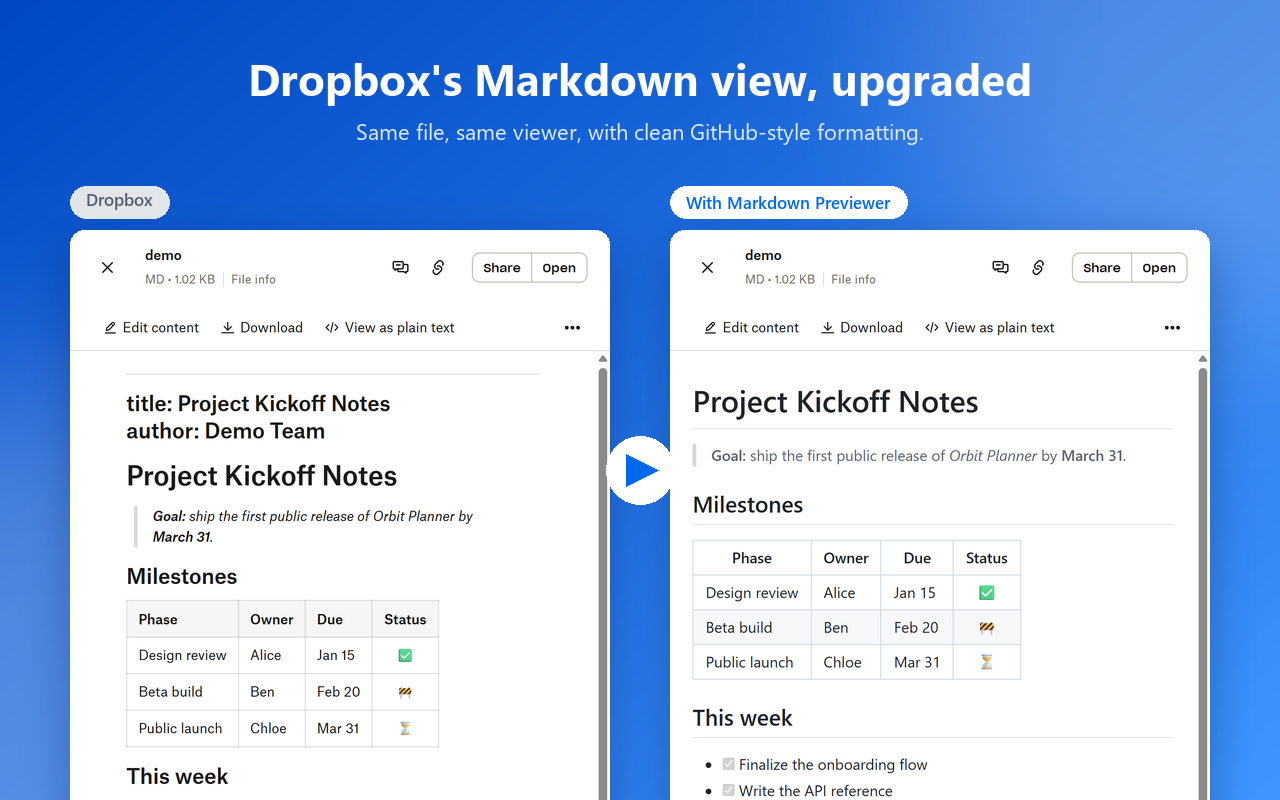
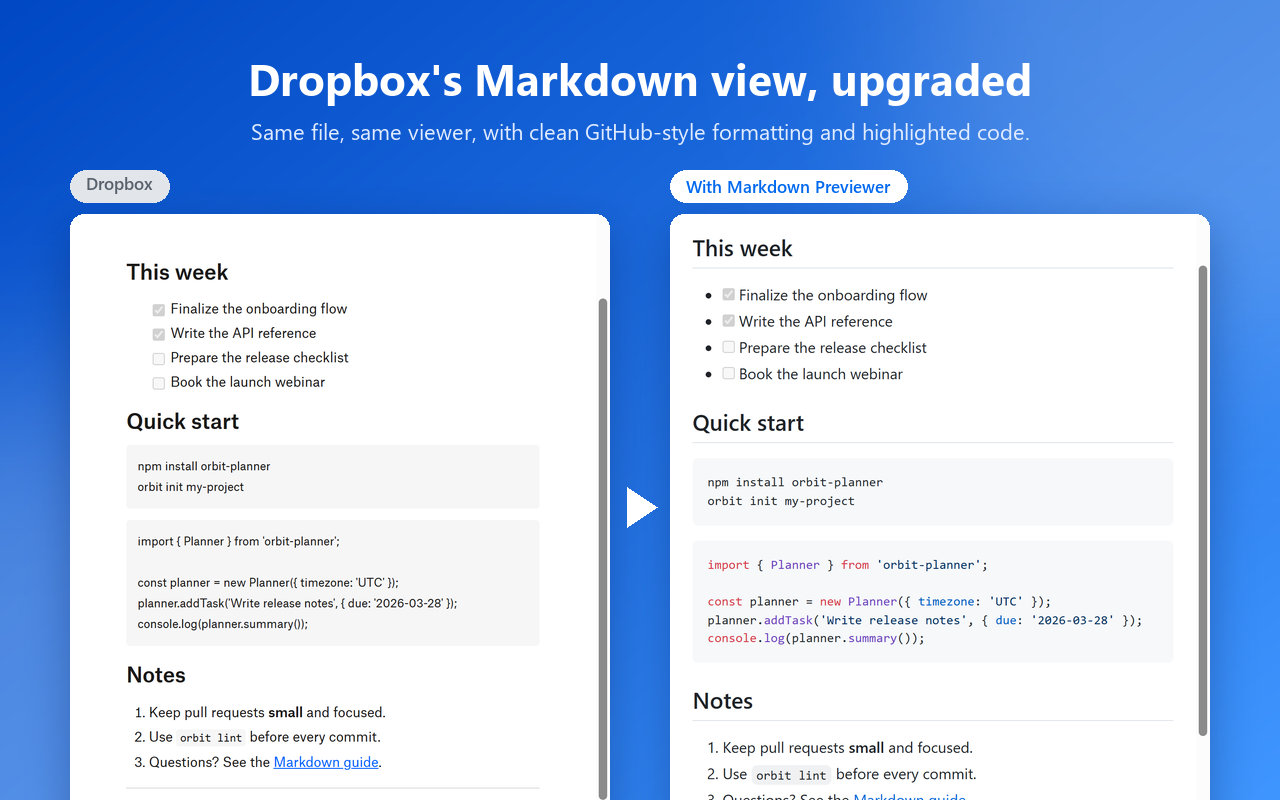
Compare code blocks in the before/after store screenshot
Scroll both quick-view captures to the code blocks, with the "Quick
start" headings aligned, so the missing syntax highlighting in Dropbox's
own Markdown view is visible. Use a plain white arrow between the cards.

diff --git a/store/screenshots/make_screenshots.py b/store/screenshots/make_screenshots.py
@@ -6,7 +6,7 @@ Requires Pillow, NumPy and the Segoe UI fonts that ship with Windows.
 Inputs live in store/screenshots/raw/:
 - quickview-*.png / full-page-*.png: Dropbox captured at a 1440x900 viewport
   @2x, with Dropbox's own Markdown view (-dropbox) and with the extension
-  (-extension)
+  (-extension); *-code.png are scrolled to the code blocks
 - render-light.png / render-dark.png: demo.md rendered by the extension's
   renderer at 2x, in light and dark mode
 """
@@ -134,20 +134,24 @@ def save(img, name):
 
 label_font = font('seguisb.ttf', 17)
 
-# 1. Dropbox's Markdown view vs. the extension, same quick-view panel
+# 1. Dropbox's Markdown view vs. the extension, same quick-view panel scrolled
+# to the code blocks
 img = background()
 heading(img, "Dropbox's Markdown view, upgraded",
-        'Same file, same viewer, with clean GitHub-style formatting.')
-before = fit(capture('quickview-dropbox', QUICKVIEW_PANEL), 540)
-after = fit(capture('quickview-extension', QUICKVIEW_PANEL), 540)
-place(img, before, (70, 230), bottom=False)
-place(img, after, (670, 230), bottom=False)
+        'Same file, same viewer, with clean GitHub-style formatting and highlighted code.')
+code_area = (QUICKVIEW_PANEL[0], 246, QUICKVIEW_PANEL[2], 900)
+before = capture('quickview-dropbox-code', code_area)
+# hide the bottom edge of the table above "This week" in Dropbox's view
+ImageDraw.Draw(before).rectangle((0, 0, 552 * 2, (286 - 246) * 2), fill='white')  # stop before the scrollbar
+before = fit(before, 540)
+after = fit(capture('quickview-extension-code', code_area), 540)
+place(img, before, (70, 214), bottom=False)
+place(img, after, (670, 214), bottom=False)
 d = ImageDraw.Draw(img)
-pill(d, (70, 186), 'Dropbox', label_font, (226, 229, 234), MUTED, 16, 32)
-pill(d, (670, 186), 'With Markdown Previewer', label_font, 'white', BLUE, 16, 32)
-cx, cy = 640, 470
-d.ellipse((cx - 34, cy - 34, cx + 34, cy + 34), fill='white')
-d.polygon([(cx - 14, cy - 16), (cx + 18, cy), (cx - 14, cy + 16)], fill=BLUE)
+pill(d, (70, 170), 'Dropbox', label_font, (226, 229, 234), MUTED, 16, 32)
+pill(d, (670, 170), 'With Markdown Previewer', label_font, 'white', BLUE, 16, 32)
+cx, cy = 640, 214 + (H - 214) // 2
+d.polygon([(cx - 13, cy - 20), (cx + 17, cy), (cx - 13, cy + 20)], fill='white')
 save(img, '01-before-after.png')
 
 # 2. Nothing extra to click; Dropbox's own toggle shows the source

diff --git a/store/README.md b/store/README.md
@@ -28,7 +28,7 @@ store/
 
 這四張由 `make_screenshots.py` 產生，在 repo 根目錄執行 `python store/screenshots/make_screenshots.py` 即可重新產生。素材放在 `raw/`：
 
-- `quickview-*.png`、`full-page-*.png`：以 1440×900、2 倍解析度在 Dropbox 截的快速預覽與完整預覽畫面。`-dropbox` 是 Dropbox 原本的 Markdown 檢視，`-extension` 是裝了擴充功能後的畫面。
+- `quickview-*.png`、`full-page-*.png`：以 1440×900、2 倍解析度在 Dropbox 截的快速預覽與完整預覽畫面。`-dropbox` 是 Dropbox 原本的 Markdown 檢視，`-extension` 是裝了擴充功能後的畫面；檔名有 `-code` 的是捲動到程式碼區塊的畫面，兩邊的「Quick start」標題對齊在同一高度。
 - `render-light.png`、`render-dark.png`：用擴充功能的渲染器把 `demo.md` 以 2 倍解析度渲染出的淺色／深色畫面。
 
 截圖請使用示範用的 Markdown 檔，不要露出真實資料、帳號名稱或共享成員的名字。
